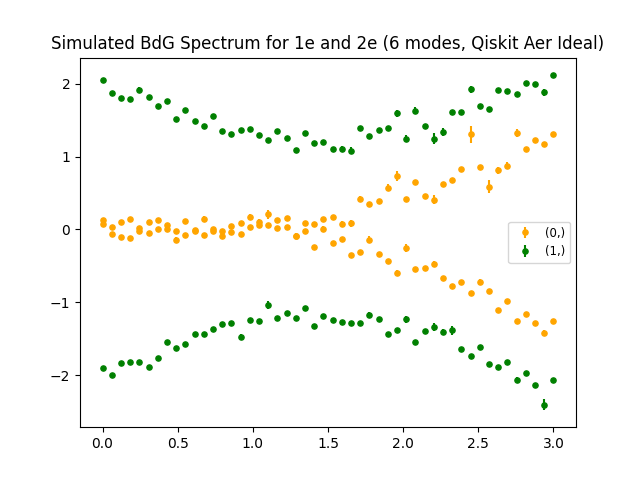
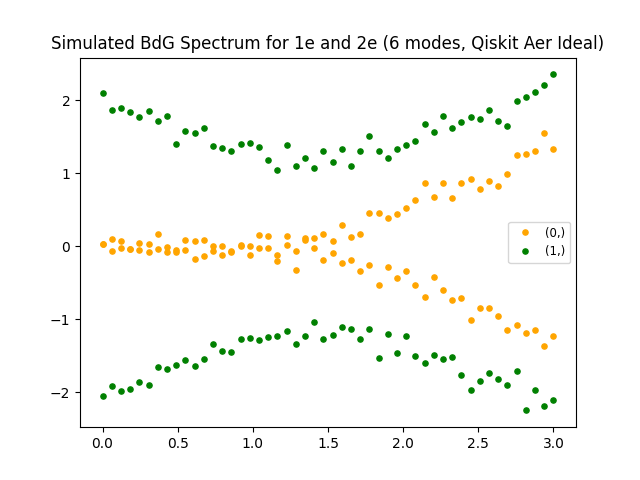
Removed error bars for now

diff --git a/scripts/site_correlation_simulated.py b/scripts/site_correlation_simulated.py
@@ -2,7 +2,7 @@ from utils import orbital_combinations, data_simulated
 import matplotlib.pyplot as plt
 import os
 
-n_modes = 6
+n_modes = 7
 tunneling = -1.0
 superconducting = 1.0
 chemical_potential_values = [1.5]
@@ -19,7 +19,7 @@ data = data_simulated(
 color = ['orange', 'green']
 keys = list(set(i for i in data['site_correlation_simulated'].keys() if i[1] == () or i[1] == (0,)))
 for i in range(len(keys)):
-    plt.errorbar(range(len(data['site_correlation_simulated'][keys[i]][0])), data['site_correlation_simulated'][keys[i]][0], yerr=data['site_correlation_error'][keys[i]][0], fmt='.', color=color[i], label=str(keys[i][1]), ms=7.5)
+    plt.plot(range(len(data['site_correlation_simulated'][keys[i]][0])), data['site_correlation_simulated'][keys[i]][0], '.', color=color[i], label=str(keys[i][1]), ms=7.5)
 
 plt.title("Simulated Site Correlation for g and 1e ("+str(n_modes)+" modes, μ="+str(chemical_potential_values[0])+", Qiskit Aer Ideal)")
 plt.legend(fontsize='small', loc='upper left')

diff --git a/scripts/bdg_energy_simulated.py b/scripts/bdg_energy_simulated.py
@@ -20,7 +20,7 @@ data = data_simulated(
 color = ['orange', 'green']
 orbitals = [(0,), (1,)]
 for i in range(2*len(orbitals)):
-    plt.errorbar(chemical_potential_values, data['bdg_energy_simulated'][0][i], yerr=data['bdg_energy_error'][0][i], fmt='.', color=color[i%2], label=str(orbitals[i] if i < 2 else ""), ms=7.5)
+    plt.plot(chemical_potential_values, data['bdg_energy_simulated'][0][i], '.', color=color[i%2], label=str(orbitals[i] if i < 2 else ""), ms=7.5)
 
 plt.title("Simulated BdG Spectrum for 1e and 2e ("+str(n_modes)+" modes, Qiskit Aer Ideal)")
 plt.legend(fontsize='small', loc='right')
